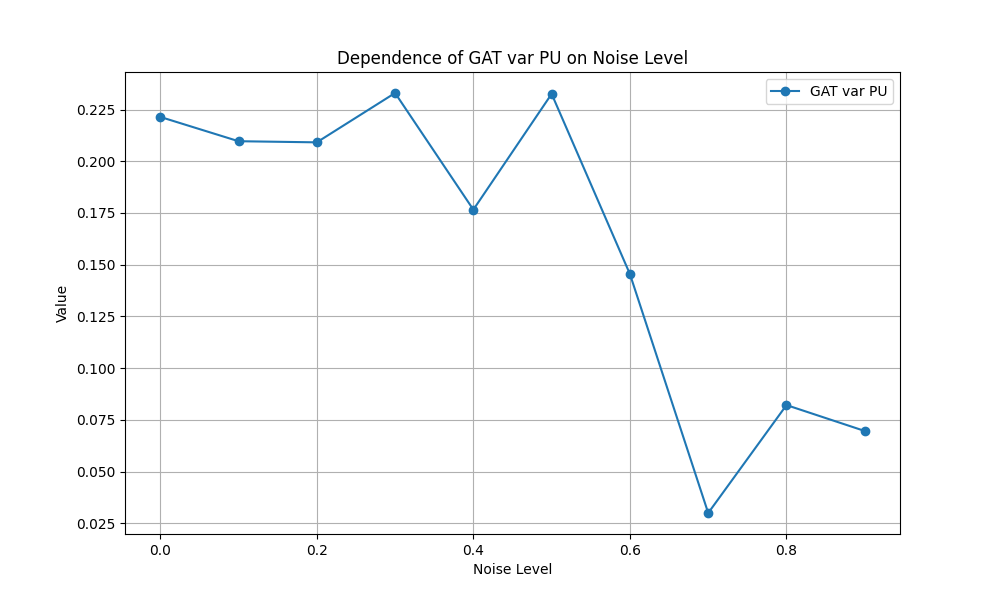
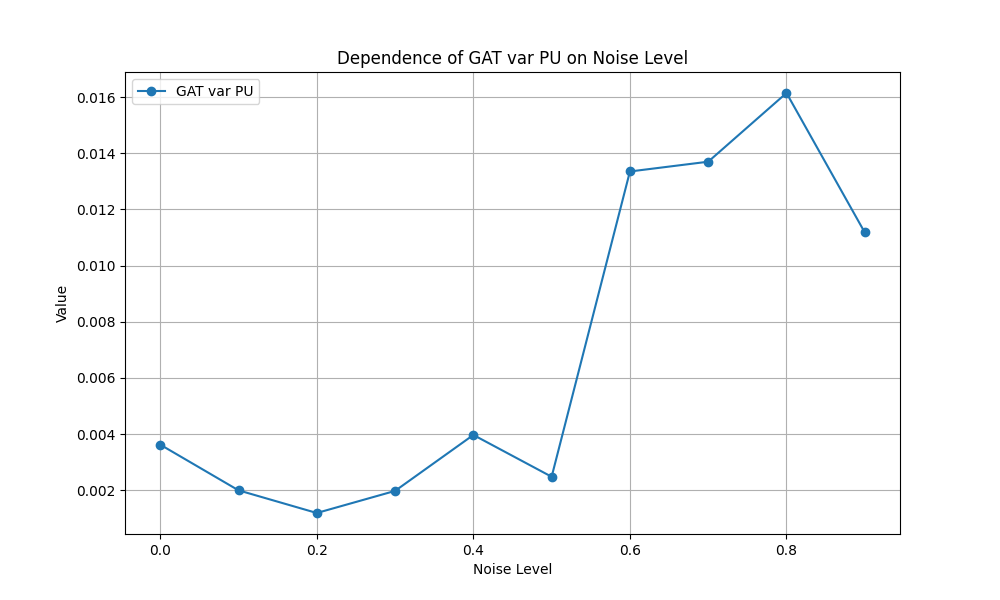
change model

diff --git a/deepseak.py b/deepseak.py
@@ -22,6 +22,7 @@ torch.manual_seed(seed)
 torch.cuda.manual_seed_all(seed)
 device = torch.device('cuda' if torch.cuda.is_available() else 'cpu')
 
+
 # Загрузка данных
 # dataset = Planetoid(root='/tmp/Cora', name='Cora')
 # data = dataset[0]
@@ -53,11 +54,11 @@ def node_noise(data, percentage):
         return noisy_data
 
     # Выбираем случайные вершины
-    selected_nodes = torch.randperm(num_nodes)[:num_selected]
+    selected_nodes = torch.randperm(num_nodes, device=device)[:num_selected]
 
     # Генерируем значения для замены из общего распределения
     flattened = tensor.flatten()
-    shuffled_values = flattened[torch.randperm(len(flattened))][:num_selected * tensor.size(1)]
+    shuffled_values = flattened[torch.randperm(len(flattened), device=device)][:num_selected * tensor.size(1)]
     replacement = shuffled_values.view(num_selected, tensor.size(1))
 
     # Создаем копию и применяем шум
@@ -80,7 +81,7 @@ def feature_noise(data, percentage):
     noisy_data.to(device)
     tensor = noisy_data.x
     if percentage <= 0:
-       return noisy_data
+        return noisy_data
 
     num_features = tensor.size(1)
     num_selected_features = int(percentage * num_features)
@@ -89,11 +90,11 @@ def feature_noise(data, percentage):
         return noisy_data
 
     # Выбираем случайные фичи
-    selected_features = torch.randperm(num_features)[:num_selected_features]
+    selected_features = torch.randperm(num_features, device=device)[:num_selected_features]
 
     # Генерируем значения для замены
     flattened = tensor.flatten()
-    shuffled_values = flattened[torch.randperm(len(flattened))][:tensor.size(0) * num_selected_features]
+    shuffled_values = flattened[torch.randperm(len(flattened), device=device)][:tensor.size(0) * num_selected_features]
     replacement = shuffled_values.view(tensor.size(0), num_selected_features)
 
     # Создаем копию и применяем шум
@@ -107,6 +108,9 @@ def feature_noise(data, percentage):
 class GCN(torch.nn.Module):
     def __init__(self, num_features, num_classes, hidden_dim=16, dropout=0.5, layer_name="GCN", heads=4):
         super().__init__()
+        self.layer_name = layer_name
+        self.dropout = dropout
+
         if layer_name == "GCN":
             self.conv1 = GCNConv(num_features, hidden_dim)
             self.conv2 = GCNConv(hidden_dim, num_classes)
@@ -118,12 +122,15 @@ class GCN(torch.nn.Module):
             self.conv2 = SAGEConv(hidden_dim, num_classes)
         else:
             raise Exception(f"Unknown layer name: {layer_name}, expected on of GCN, GAT, SAGE")
-        self.dropout = dropout
 
     def forward(self, data):
         x, edge_index = data.x, data.edge_index
+        x = F.dropout(x, p=self.dropout, training=self.training)
         x = self.conv1(x, edge_index)
-        x = F.relu(x)
+        if self.layer_name == "GAT":
+            x = F.elu(x)
+        else:
+            x = F.relu(x)
         x = F.dropout(x, training=self.training, p=self.dropout)
         x = self.conv2(x, edge_index)
 
